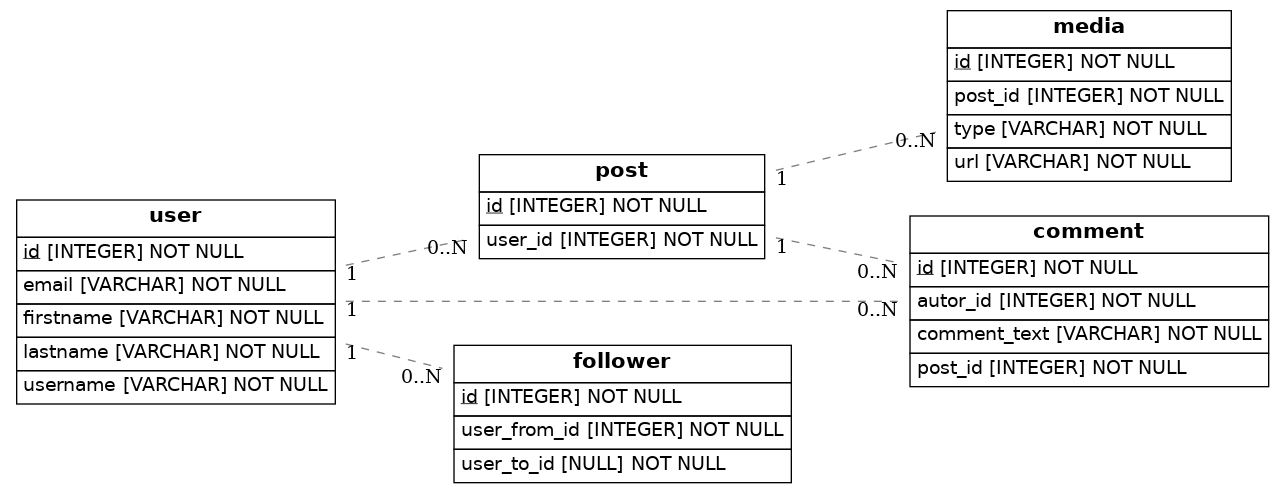
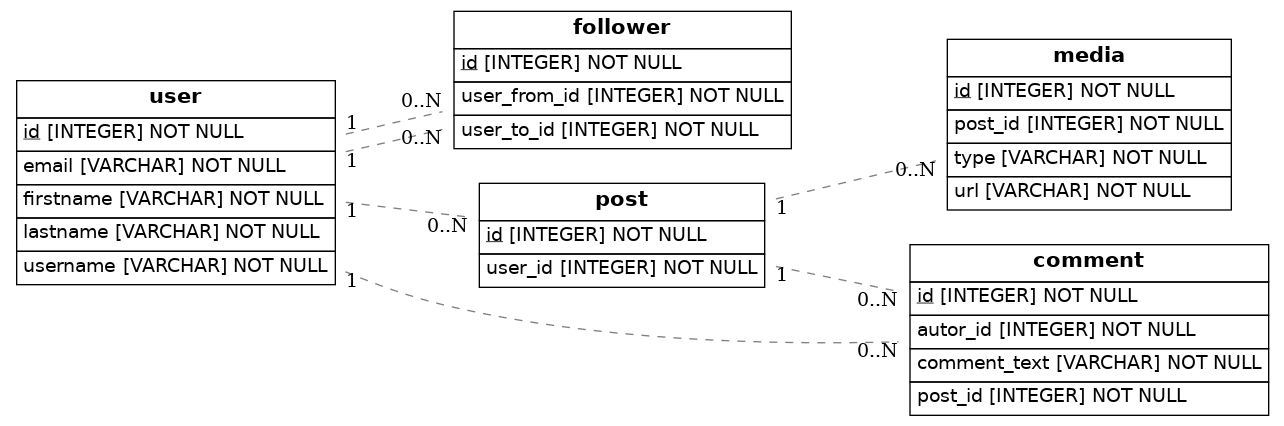
final

diff --git a/src/models.py b/src/models.py
@@ -3,6 +3,7 @@ import sys
 from sqlalchemy.orm import declarative_base, Mapped, mapped_column, relationship
 from sqlalchemy import create_engine, ForeignKey
 from eralchemy2 import render_er
+from typing import List
 
 Base = declarative_base()
 
@@ -16,12 +17,22 @@ class User(Base):
     lastname: Mapped[str] = mapped_column(nullable=False)
     email: Mapped[str] = mapped_column(nullable = False, unique = True)
 
+    followers: Mapped[List["Follower"]] = relationship(foreign_keys = ["Follower.user_from_id"])
+    following: Mapped[List["Follower"]] = relationship(foreign_keys = ["Follower.user_to_id"])
+
+class Follower(Base):
+    __tablename__ = 'follower'
+    id: Mapped[int] = mapped_column(primary_key = True)
+
+    user_from_id: Mapped[int] = mapped_column(ForeignKey("user.id"))
+    user_to_id: Mapped[int] = mapped_column(ForeignKey("user.id"))
+
 class Post(Base):
     __tablename__ = 'post'
 
     id: Mapped[int] = mapped_column(primary_key = True)
     user_id: Mapped[int] = mapped_column(ForeignKey("user.id"))
-    user: Mapped["User"] = relationship(backref='post')
+    user: Mapped["User"] = relationship()
 
 class Media(Base):
     __tablename__ = 'media'
@@ -29,19 +40,18 @@ class Media(Base):
     type: Mapped[str] = mapped_column(nullable = False)
     url: Mapped[str] = mapped_column(nullable = False)
     post_id: Mapped[int] = mapped_column(ForeignKey("post.id"))
+    post: Mapped["Post"] = relationship()
 
 class Comment(Base):
     __tablename__ = 'comment'
     id: Mapped[int] = mapped_column(primary_key = True)
     comment_text: Mapped[str] = mapped_column(nullable = False)
-    autor_id: Mapped[str] = mapped_column(ForeignKey("user.id"))
-    post_id: Mapped[int] = mapped_column(ForeignKey("post.id"))
 
-class Follower(Base):
-    __tablename__ = 'follower'
-    id: Mapped[int] = mapped_column(primary_key = True)
-    user_from_id: Mapped[int] = mapped_column(ForeignKey("user.id"))
-    user_to_id: Mapped[int] = mapped_column(ForeignKey("username.id"))
+    autor_id: Mapped[str] = mapped_column(ForeignKey("user.id"))
+    author: Mapped["User"] = relationship()
+
+    post_id: Mapped[int] = mapped_column(ForeignKey("post.id"))
+    post: Mapped["Post"] = relationship()
 
 
 
